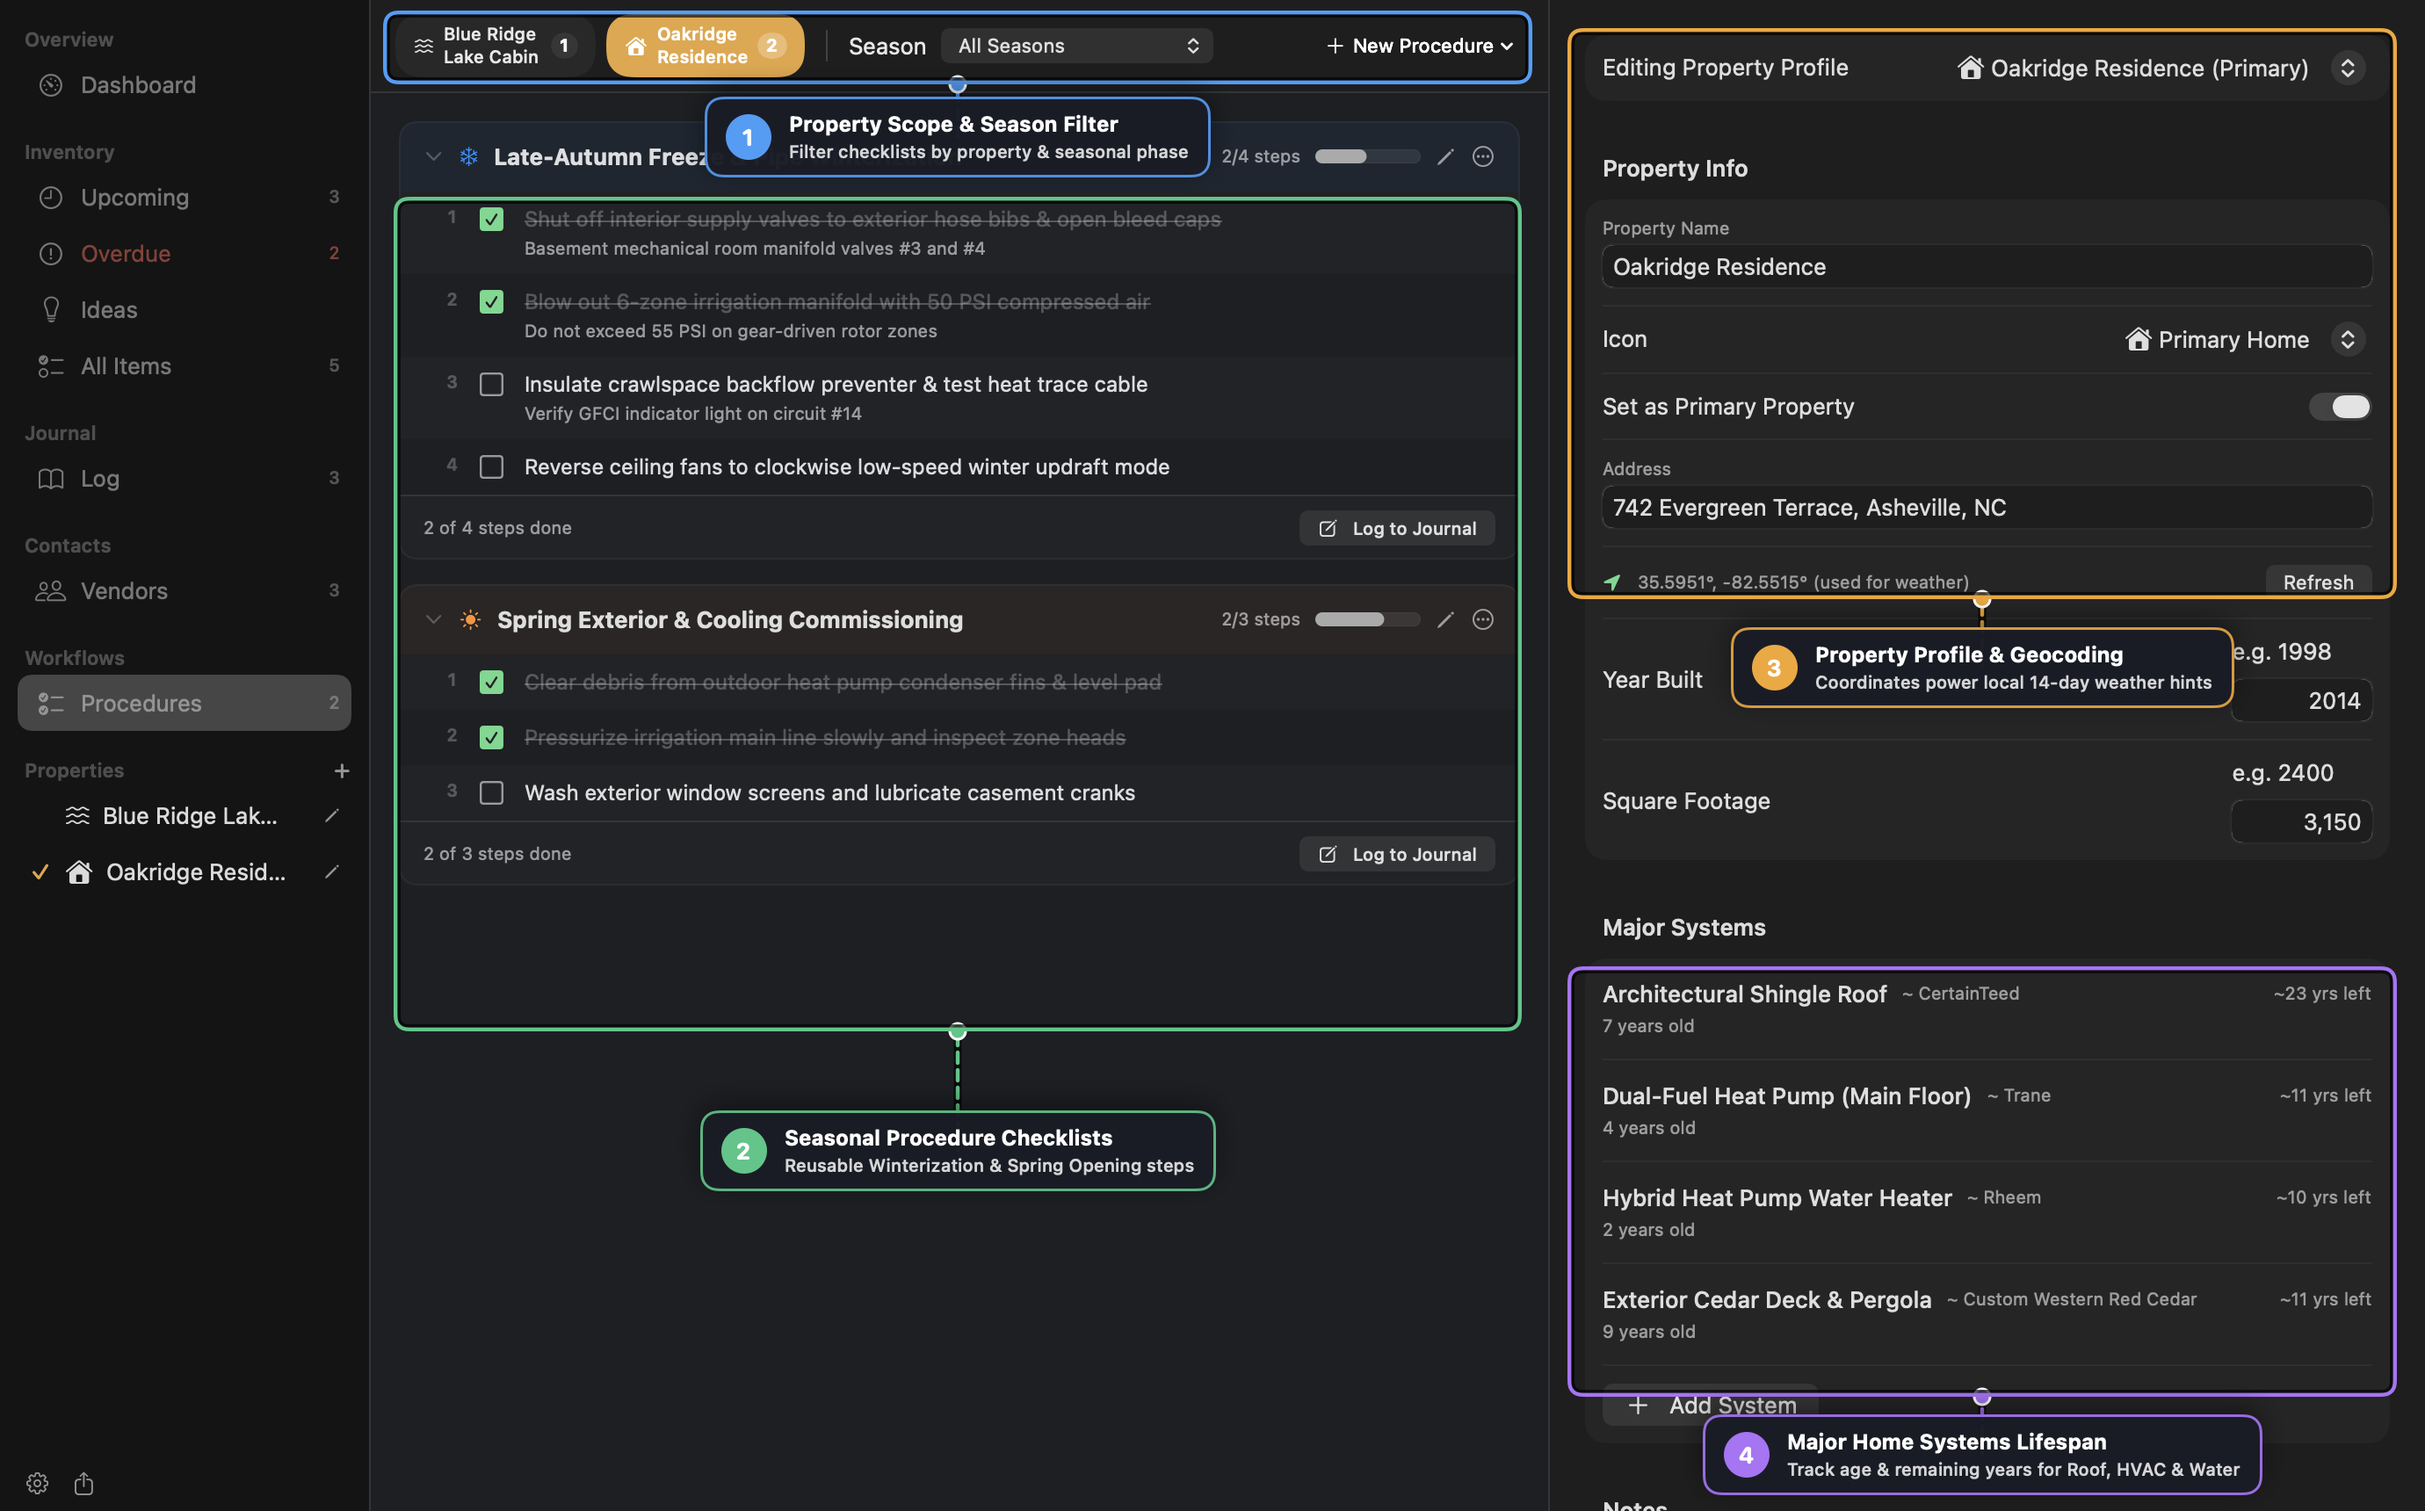
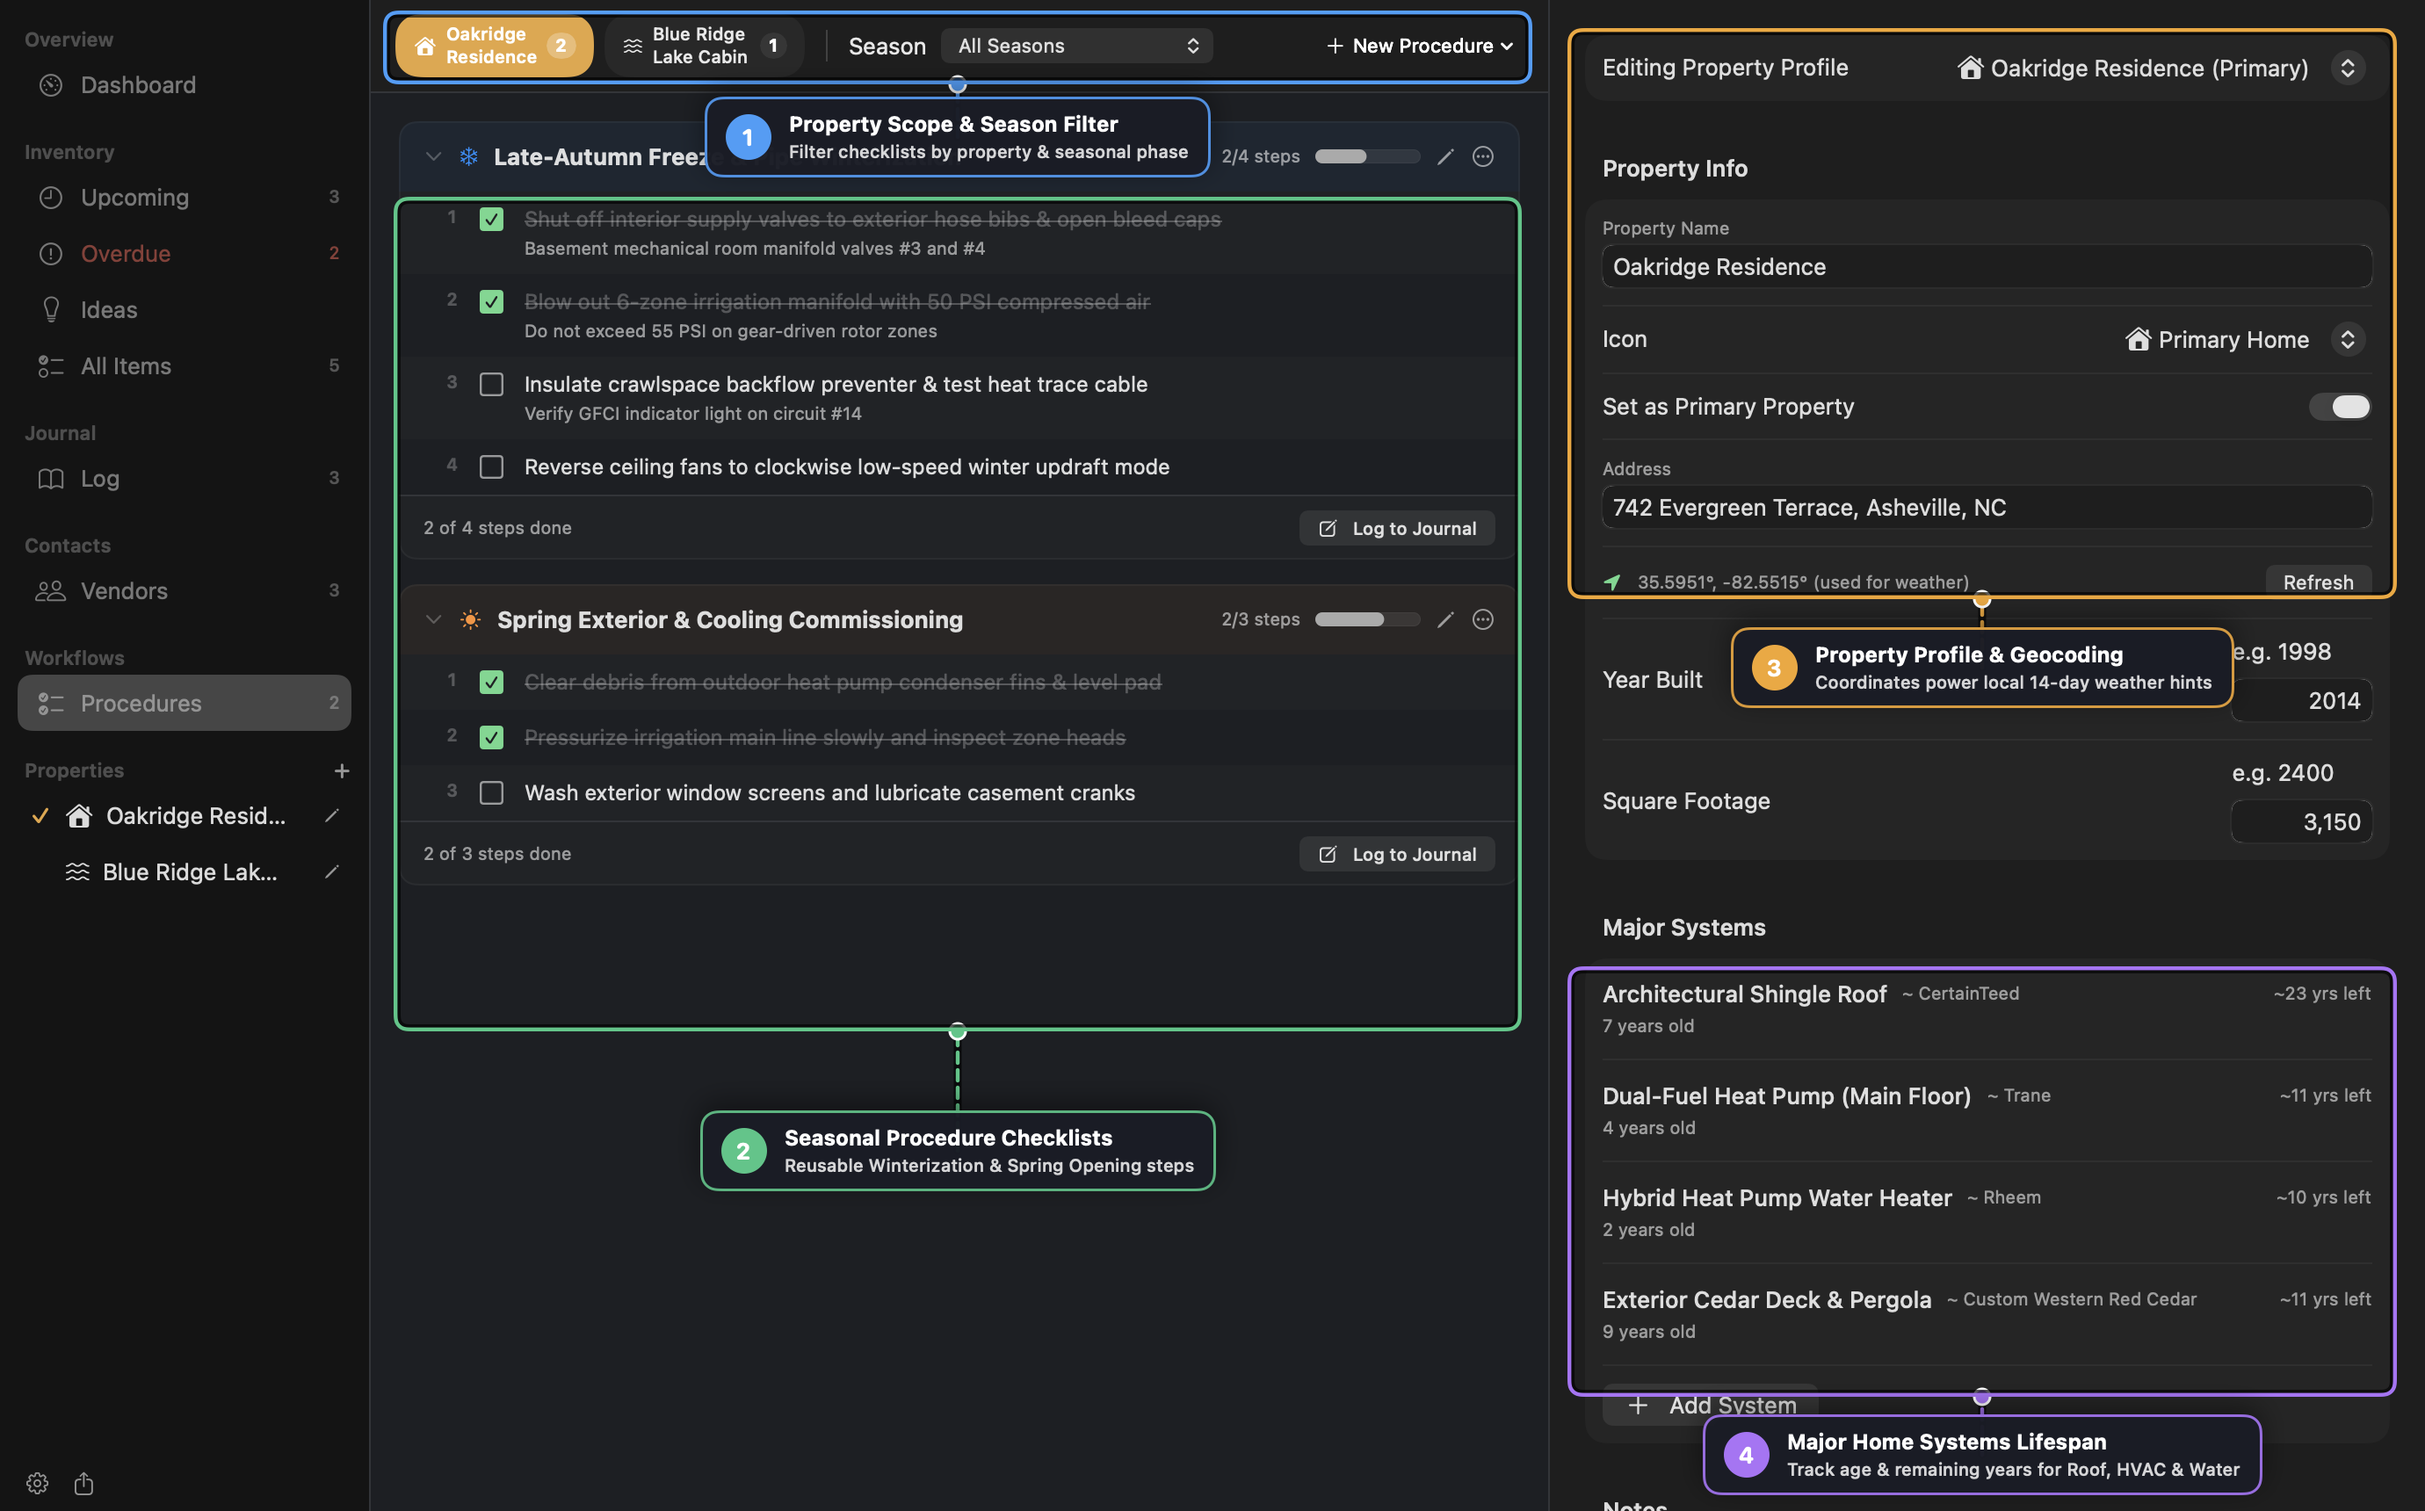
docs: emit clean companion screenshots alongside annotated callout views

Changed region(s): [[0.1558, 0.0, 0.3428, 0.0616], [0.0312, 0.5238, 0.1246, 0.5855]]

diff --git a/Tests/UpkeepTests/StoreTests.swift b/Tests/UpkeepTests/StoreTests.swift
@@ -265,8 +265,9 @@ struct FilteringTests {
     @Test("lowStockItems filters by supply.needsReorder")
     @MainActor func lowStockFilter() {
         let store = makeStore()
+        let futureDate = Date.now.addingTimeInterval(86400 * 180)
         store.items = [
-            makeItem(name: "A", supply: Supply(stockOnHand: 0, quantityPerUse: 1)),
+            makeItem(name: "A", startDate: futureDate, supply: Supply(stockOnHand: 0, quantityPerUse: 1)),
             makeItem(name: "B", supply: Supply(stockOnHand: 10, quantityPerUse: 1)),
             makeItem(name: "C"),
         ]

diff --git a/Tests/UpkeepTests/UpkeepDocsScreenshotTests.swift b/Tests/UpkeepTests/UpkeepDocsScreenshotTests.swift
@@ -178,6 +178,10 @@ final class UpkeepDocsScreenshotTests: XCTestCase {
         try FileManager.default.createDirectory(at: url.deletingLastPathComponent(), withIntermediateDirectories: true)
         try pngData.write(to: url)
         window.orderOut(nil)
+
+        if !callouts.isEmpty && path.hasSuffix(".png") {
+            try renderAnnotatedScreenshot(view, callouts: [], size: size, to: String(path.dropLast(4)) + "_clean.png")
+        }
     }
 
     @MainActor
